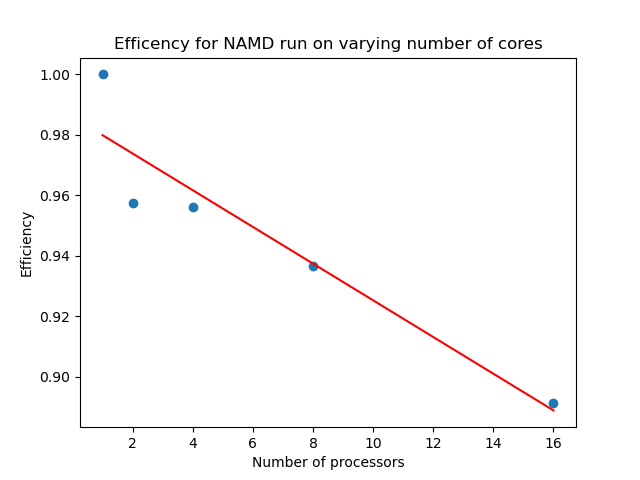
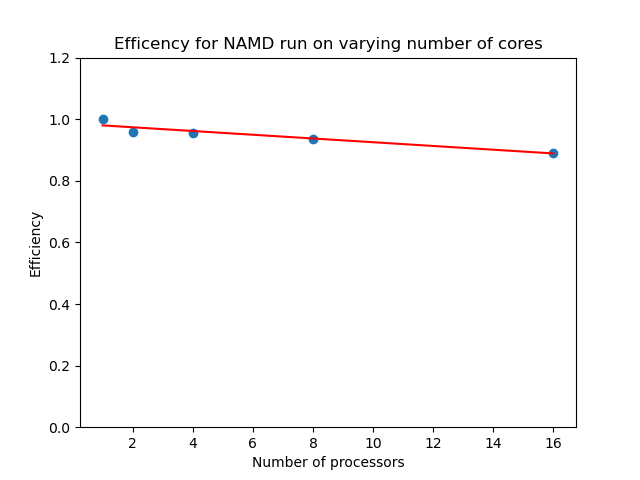
Fix result axes

diff --git a/one_node_results/plot_results.py b/one_node_results/plot_results.py
@@ -14,12 +14,20 @@ for processor_num in processor_nums:
     results[-1] = float(results[-1][:-2])
 
 plt.scatter(processor_nums, results)
-m, b = np.polyfit(processor_nums, results, 1)
-plt.plot(processor_nums, [m * xi + b for xi in processor_nums], color='red', label='Best Fit Line')
+m = np.sum(np.array(processor_nums) * np.array(results)) / np.sum(np.array(processor_nums) ** 2)
+plt.plot([0] + processor_nums, [0] + [m * xi for xi in processor_nums], color='red', label='Best Fit Line')
+
+# Set the spines (axis lines) to intersect at (0, 0)
+plt.gca().spines['left'].set_position('zero')  # y-axis
+plt.gca().spines['bottom'].set_position('zero')  # x-axis
+
+# Set bounds for the axes so they stop at the data range
+plt.gca().spines['left'].set_bounds(0, max(results))
+plt.gca().spines['bottom'].set_bounds(0, max(processor_nums))
 
 plt.xlabel('Number of processors')
 plt.ylabel('ns per day')
-plt.title('Efficiency for NAMD run on varying number of processors')
+plt.title('ns per day for NAMD run on varying number of processors')
 
 plt.savefig("one_node_graph_time.png")
 
@@ -37,6 +45,8 @@ plt.scatter(processor_nums, efficieny)
 
 m, b = np.polyfit(processor_nums, efficieny, 1)
 plt.plot(processor_nums, [m * xi + b for xi in processor_nums], color='red', label='Best Fit Line')
+
+plt.ylim(0, 1.2)
 
 plt.xlabel('Number of processors')
 plt.ylabel('Efficiency')
